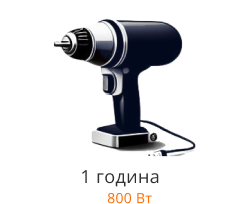
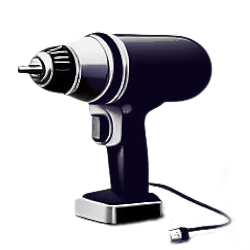
add slider photo

Changed region(s): [[0.0601, 0.0882, 0.9313, 1.0]]

diff --git a/src/components/Hero.jsx b/src/components/Hero.jsx
@@ -10,10 +10,10 @@ import Typography from '@mui/material/Typography';
 import Carousel from 'react-material-ui-carousel'
 
 const items = [
-  {src: 'drillm.png'},
-  {src: 'lampm.png'},
-  {src: 'laptopm.png'},
-  {src: 'tvm.png'},
+  {src: 'drillm.png', time: "1 година", vt: "800 Вт"},
+  {src: 'lampm.png', time: "120 годин", vt: "7 Вт"},
+  {src: 'laptopm.png', time: "10 годин", vt: "80 Вт"},
+  {src: 'tvm.png', time: "14 годин", vt: "60 Вт"},
 ];
 
 export default function Hero() {
@@ -102,7 +102,7 @@ export default function Hero() {
           sx={(theme) => ({
             mt: { xs: 8, sm: 10 },
             alignSelf: 'center',
-            height: { xs: 300, sm: 700 },
+            height: { xs: 330, sm: 700 },
             width: '100%',
             backgroundImage:
               theme.palette.mode === 'light'
@@ -140,7 +140,9 @@ function Item(props)
 {
     return (
          <Paper>
-          <img src={props.item.src}/>
+          <img width="200px" src={props.item.src}/>
+          <p>{props.item.time}</p>
+          <p color='#FF6C00'>{props.item.vt}</p>
          </Paper> 
     )
 }

diff --git a/src/getLPTheme.js b/src/getLPTheme.js
@@ -1,6 +1,5 @@
 import { alpha } from '@mui/material/styles';
 import { red } from '@mui/material/colors';
-import { createTheme } from '@mui/system';
 
 export const brand = {
   50: '#F0F7FF',
